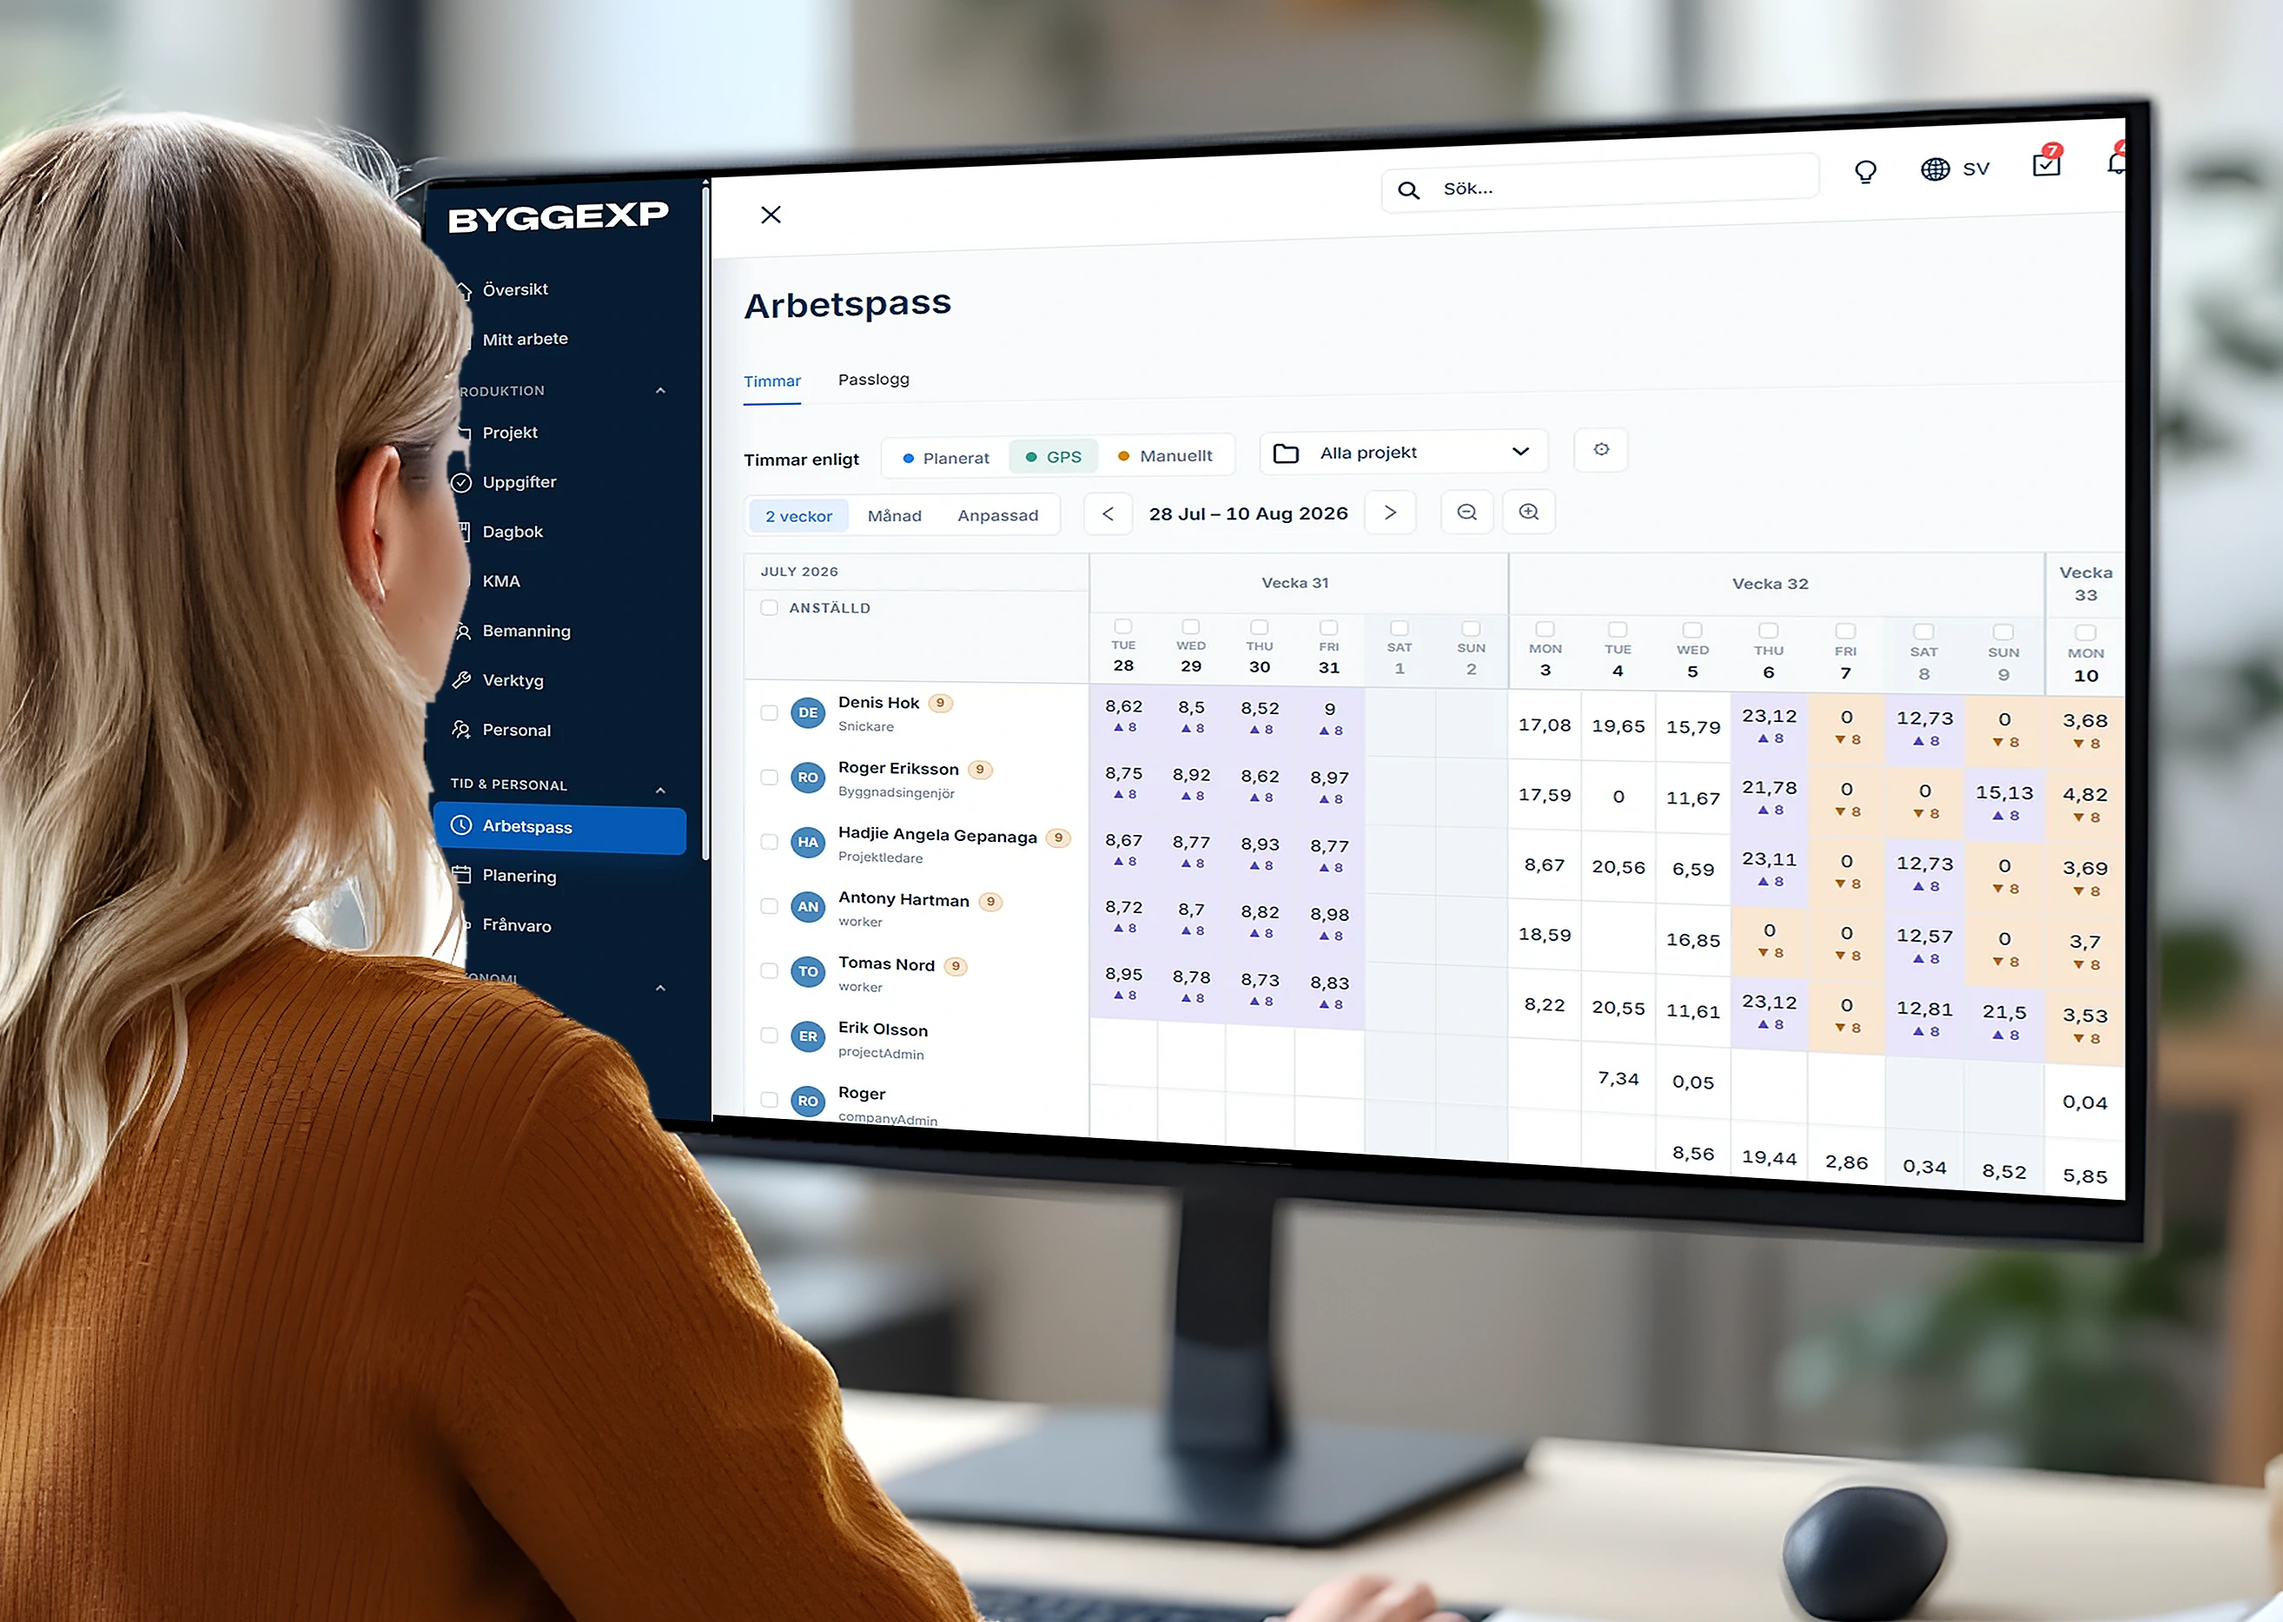
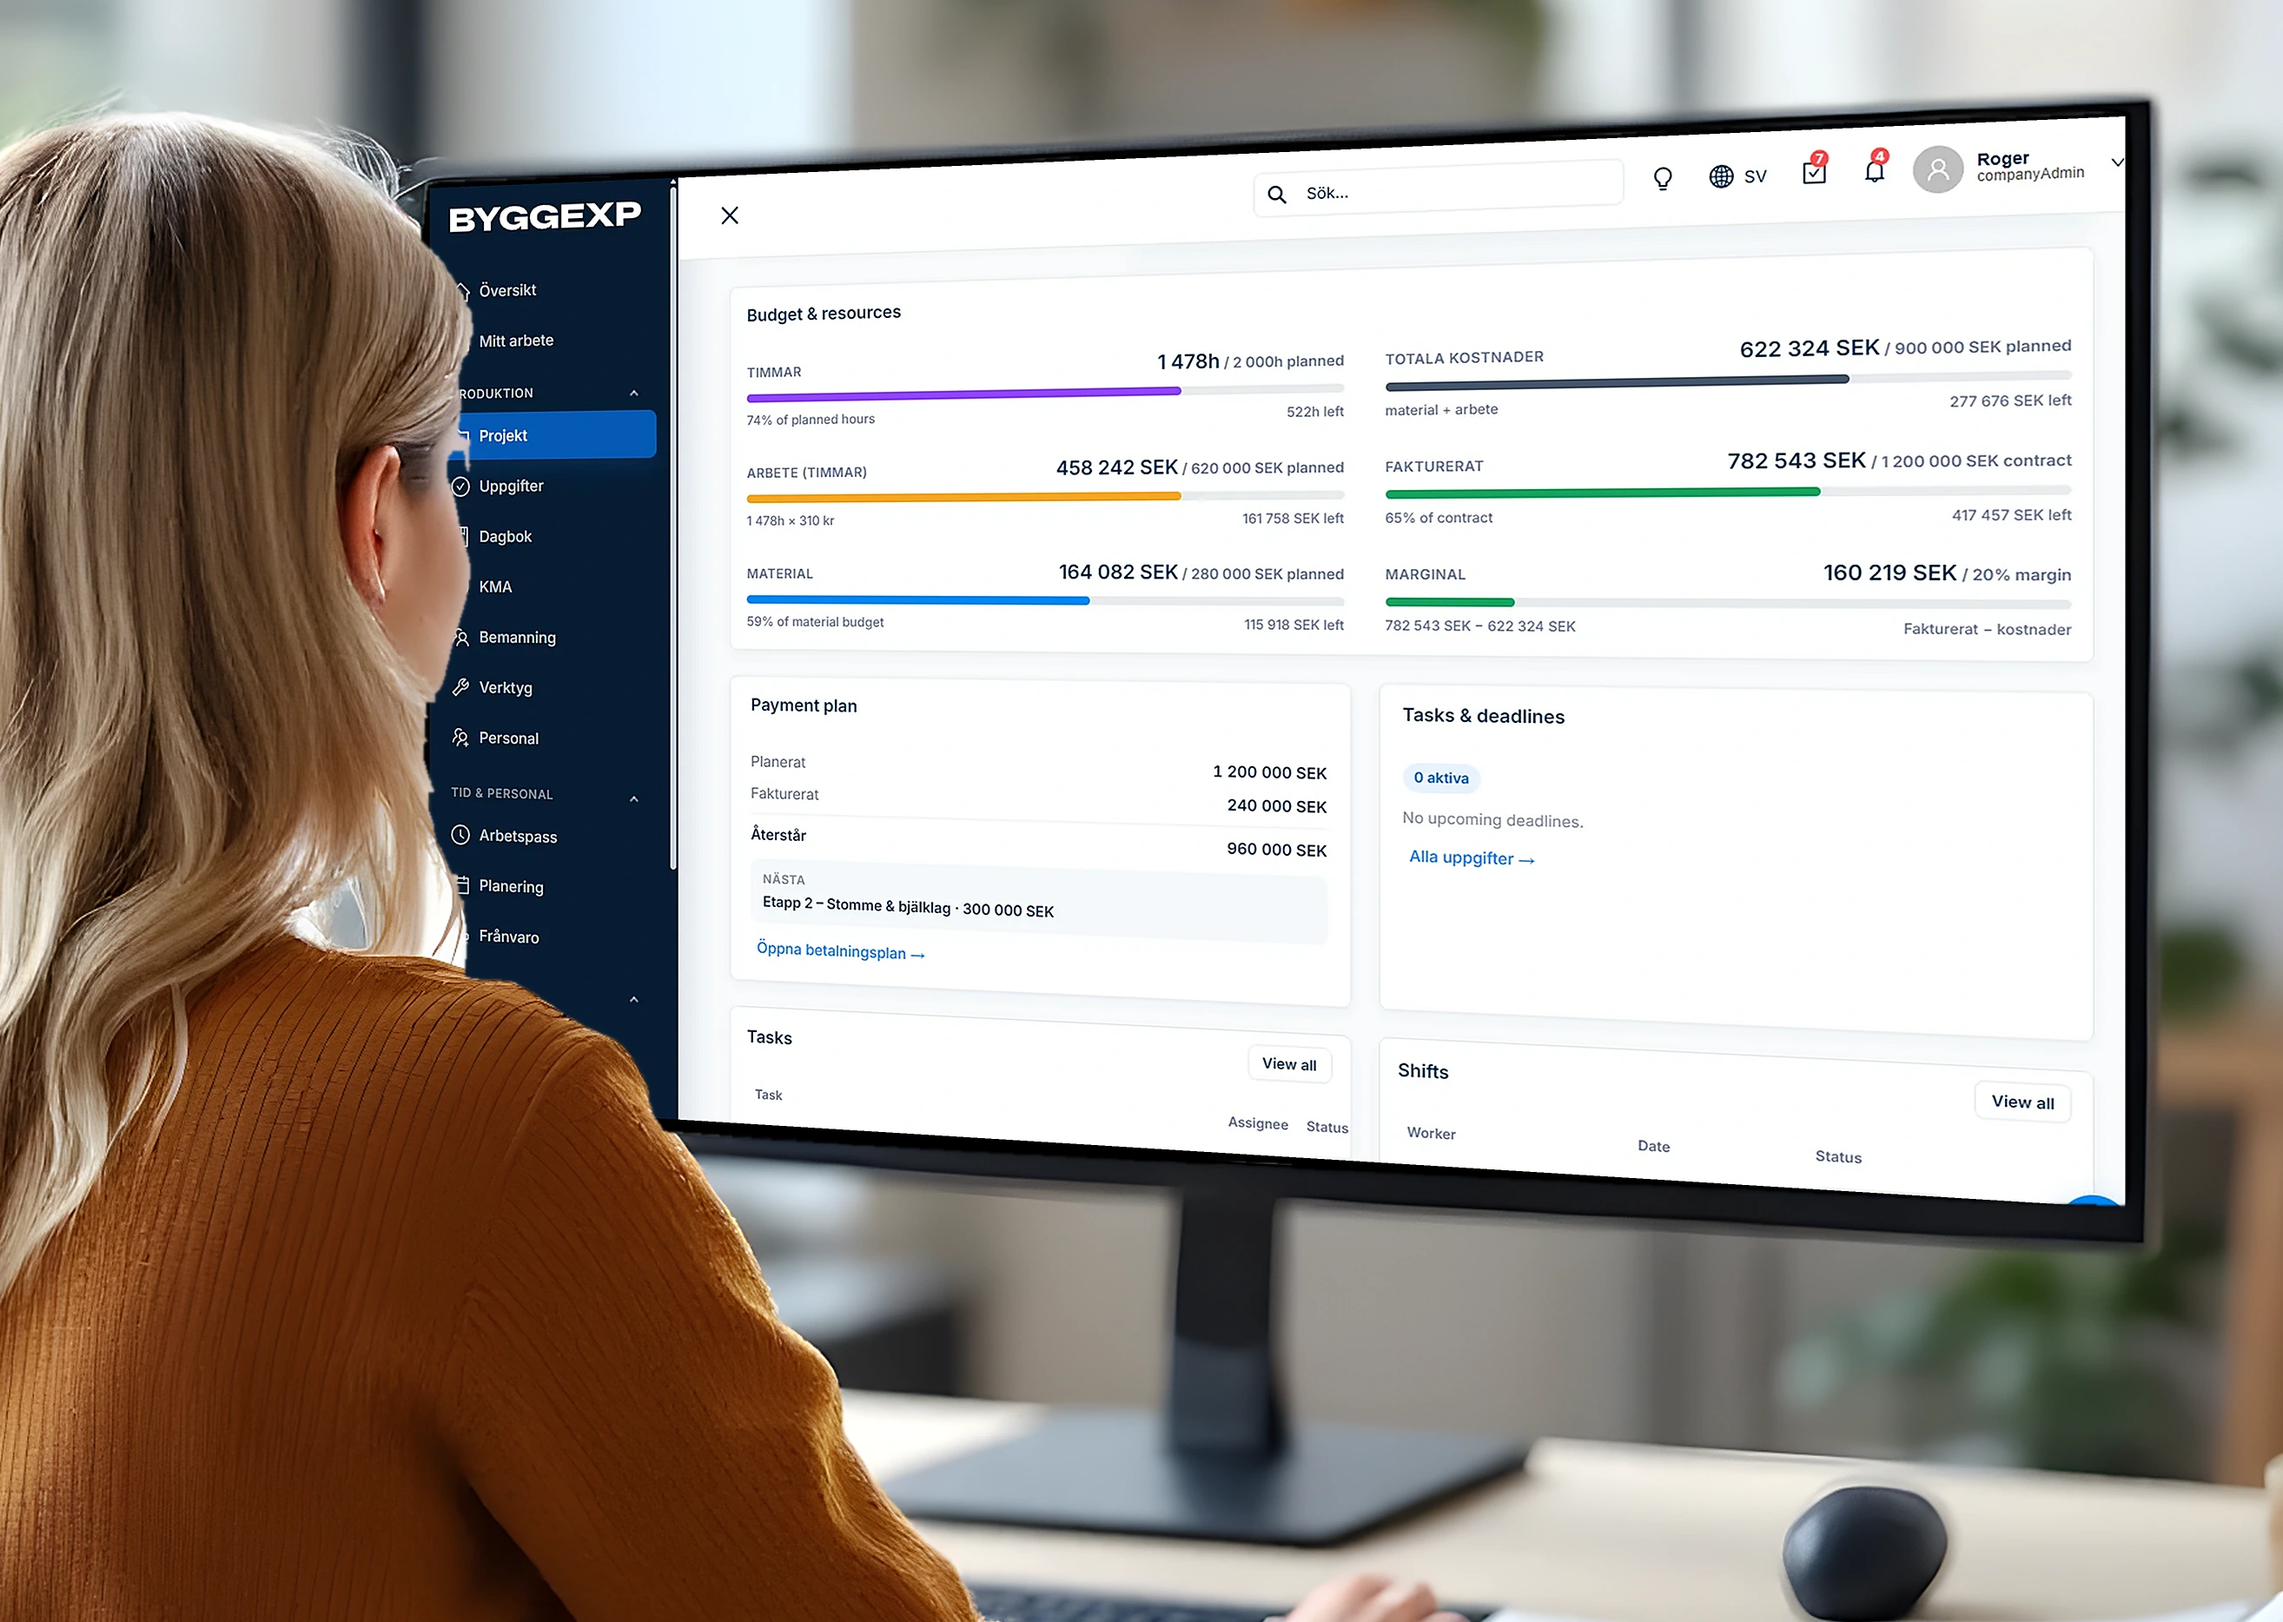
Hero: office monitor shows project economy (no stretch), läs mer in line font, lowercase, near-text colour
Claude-Session: https://claude.ai/code/session_01L9ZqtpjYjzaGwTqWE1SvSq

diff --git a/src/components/HeroV2/HeroV2.scss b/src/components/HeroV2/HeroV2.scss
@@ -92,11 +92,20 @@
   padding: 0;
   border: 0;
   background: none;
-  font: inherit; // same size as the price line
+  font: inherit; // same font/size as the price line
+  font-family: inherit;
+  letter-spacing: inherit;
+  line-height: inherit;
   color: var(--muted);
   cursor: pointer;
-  text-decoration: underline;
-  text-underline-offset: 3px;
+  text-decoration: none;
+  &::after {
+    content: " ›";
+  }
+  &:hover {
+    text-decoration: underline;
+    text-underline-offset: 3px;
+  }
 }
 
 .hero-v2-ctas {
@@ -274,7 +283,7 @@
   }
 
   .hero-v2-more {
-    color: #e6eef7; // grey, a touch lighter than the line
+    color: #d9e8f8; // almost the line colour, a touch lighter
   }
 
   .hero-v2-btn--ghost {

diff --git a/src/components/HeroV2/HeroV2.tsx b/src/components/HeroV2/HeroV2.tsx
@@ -70,7 +70,7 @@ function HeroV2({ variant = "center" }: HeroV2Props) {
                   aria-expanded={open[i]}
                   onClick={() => setOpen((o) => o.map((v, j) => (j === i ? !v : v)))}
                 >
-                  {open[i] ? "Visa mindre" : "Läs mer"}
+                  {open[i] ? "visa mindre" : "läs mer"}
                 </button>
               </p>
             ))}

diff --git a/design-assets/hero/comp_ek.py b/design-assets/hero/comp_ek.py
@@ -1,0 +1,9 @@
+exec(open('comp3.py').read().split('o,qo=comp')[0])  # helpers
+from PIL import Image
+# project economy screen, cropped ~1.7:1 to match the monitor's real proportions (no stretch)
+ek=Image.open(R+'public/landing/features/9ekonomi.webp').convert('RGB').crop((255,45,2135,1151))
+o,_=comp(Image.open('../ph/office-b1-2x.png'),ek,(1700,600),200,22,4,
+         [(1007,284.6),(2311,229.3),(2311,1067.2),(1007,987.2)])
+c=o.crop(tuple(int(v*S) for v in (680,140,2432,1385)))
+c.save(R+'public/landing/hero/kontor.webp',quality=93,method=6)
+o.crop((1400,250,3600,1700)).resize((1100,725)).save('chk-ek.jpg')
